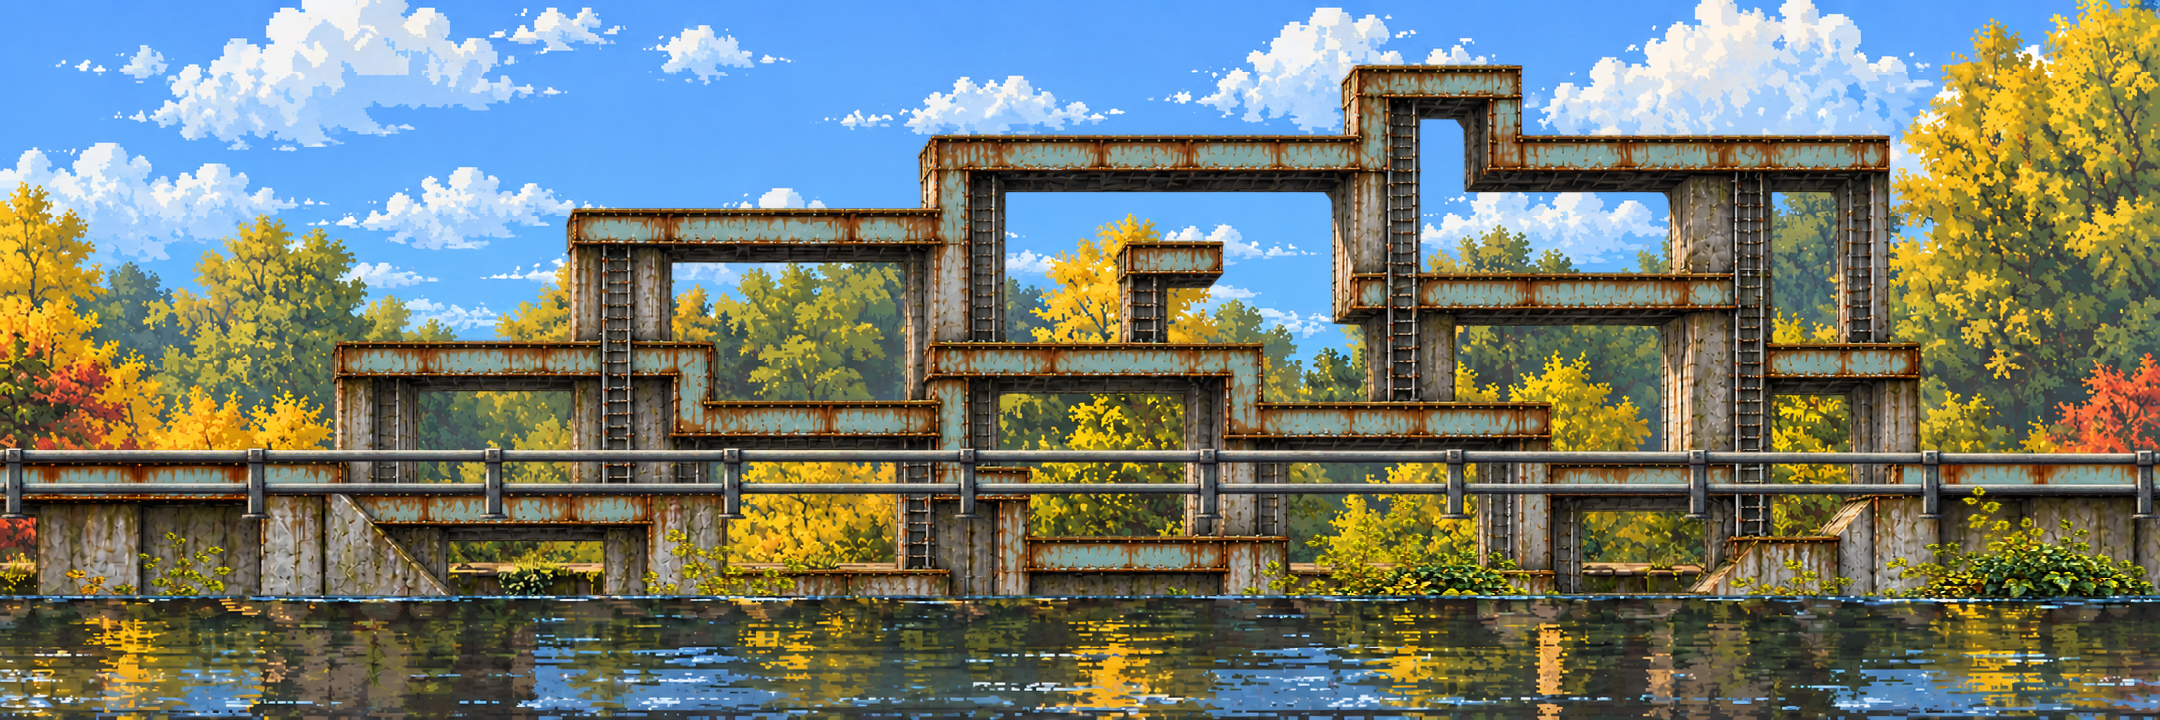
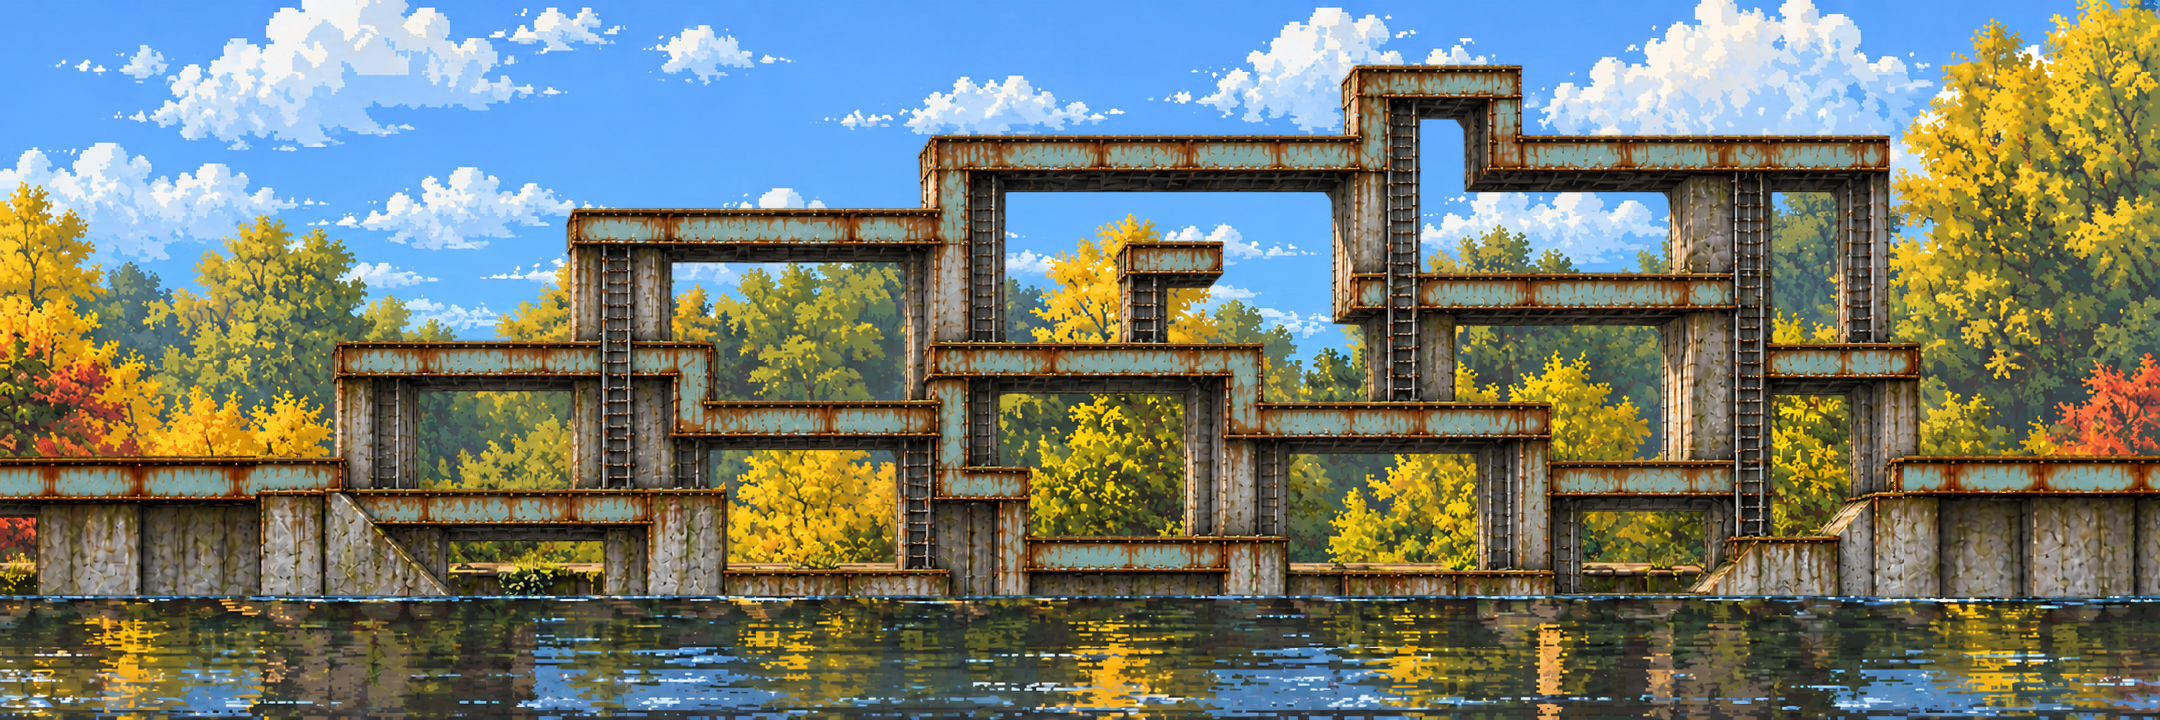
fix(creek): railing on the bank, foliage lens 47 px lower, both clean only; bank over the piers

Changed region(s): [[0.0, 0.6111, 1.0, 0.8556], [0.031, 0.7333, 0.1241, 0.825]]

diff --git a/game/src/stage/manifest.ts b/game/src/stage/manifest.ts
@@ -1,5 +1,6 @@
 export type RegionState = 'clean' | 'anomaly';
-export interface StageLayer { id: string; z: number; scroll: number; file: string }
+/** `dy`: the plate is drawn this many px lower than its chunk's top (a plate painted off its ground, export.json). */
+export interface StageLayer { id: string; z: number; scroll: number; file: string; dy?: number }
 export interface ChunkState { layers: StageLayer[]; collision: string | null }
 export interface StageChunk { id: string; x: number; y: number; states: Partial<Record<RegionState, ChunkState>> }
 export interface StageManifest { region: string; chunkSize: [number, number]; chunks: StageChunk[] }
@@ -36,6 +37,7 @@ export function parseManifest(value: unknown): StageManifest {
         assert(object(layer) && typeof layer.id === 'string' && assetFile(layer.file), 'layer id/file');
         assert(Number.isInteger(layer.z) && Number(layer.z) >= 0 && Number(layer.z) <= 7, 'layer z');
         assert(typeof layer.scroll === 'number' && Number.isFinite(layer.scroll) && layer.scroll >= 0, 'scroll');
+        assert(layer.dy === undefined || Number.isInteger(layer.dy), 'layer dy');
       }
     }
   }
@@ -47,6 +49,6 @@ export function stageLayers(manifest: StageManifest, state: RegionState) {
     const content = chunk.states[state];
     if (!content) throw new Error(`Missing ${manifest.region}/${chunk.id}.${state}`);
     return content.layers.map((layer, order) => ({ ...layer, order,
-      x: chunk.x * manifest.chunkSize[0], y: chunk.y * manifest.chunkSize[1] }));
+      x: chunk.x * manifest.chunkSize[0], y: chunk.y * manifest.chunkSize[1] + (layer.dy ?? 0) }));
   });
 }

diff --git a/scripts/export_stage.py b/scripts/export_stage.py
@@ -86,10 +86,16 @@ def manifest(region: Path) -> tuple[dict, dict[str, Path]]:
                     tile = region / layer["file"].format(tile=chunk["x"])
                     if chunk["y"] != 0 or not tile.exists():
                         continue
-                    layers.append({"id": layer_id, "z": layer["z"], "scroll": layer["scroll"], "file": publish(tile)})
+                    entry = {"id": layer_id, "z": layer["z"], "scroll": layer["scroll"], "file": publish(tile)}
+                    if layer.get("dy"):
+                        entry["dy"] = layer["dy"]
+                    layers.append(entry)
                     continue
                 plate = source(region, layer["file"], chunk.get("name", chunk_id), aliases)
-                layers.append({"id": layer_id, "z": layer["z"], "scroll": layer["scroll"], "file": publish(plate)})
+                entry = {"id": layer_id, "z": layer["z"], "scroll": layer["scroll"], "file": publish(plate)}
+                if layer.get("dy"):  # a plate painted off its ground, moved down onto it (drawn and verified there)
+                    entry["dy"] = layer["dy"]
+                layers.append(entry)
             collision = region / f"{chunk_id}.{state}.collision.json"
             states[state] = {"layers": layers, "collision": publish(collision) if collision.exists() else None}
         chunks.append({"id": chunk_id, "x": chunk["x"], "y": chunk["y"], "states": states})
@@ -156,7 +162,12 @@ def verify(region: Path, out: Path) -> list[str]:
             for layer_id in config["states"][state]:
                 layer = config["layers"][layer_id]
                 path = rests[layer_id] if layer.get("region") else exported[layer_id]
-                canvas = Image.alpha_composite(canvas, Image.open(path).convert("RGBA"))
+                plate = Image.open(path).convert("RGBA")
+                if layer.get("dy"):
+                    moved = Image.new("RGBA", canvas.size, (0, 0, 0, 0))
+                    moved.paste(plate, (0, layer["dy"]))
+                    plate = moved
+                canvas = Image.alpha_composite(canvas, plate)
             art = Image.open(region / pattern.format(name=name)).convert("RGB")
             if ImageChops.difference(canvas.convert("RGB"), art).getbbox():
                 raise ExportError(f"{region.name}/{chunk['id']}.{state}: the exported layers don't rebuild "
